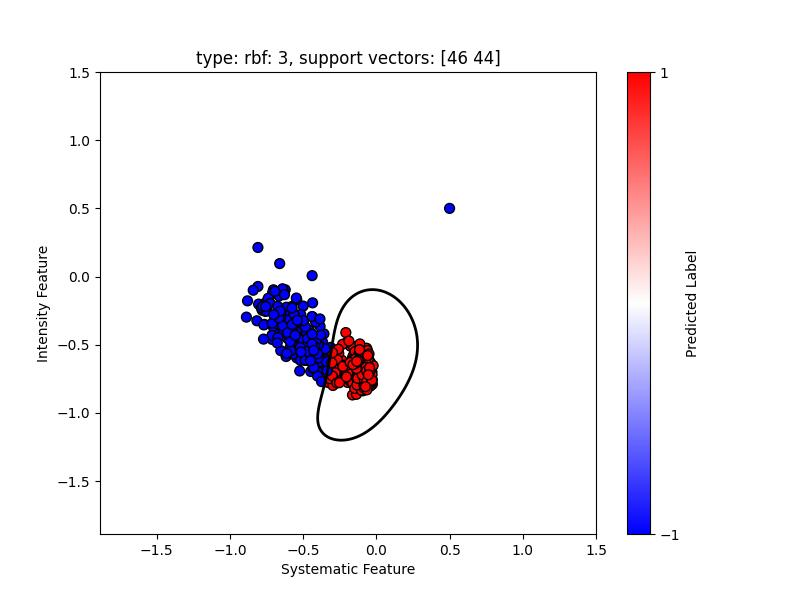
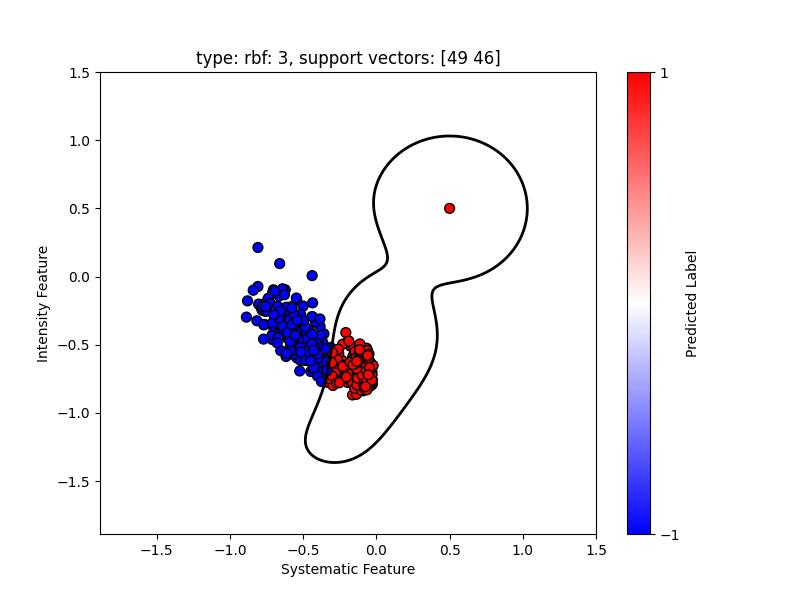
experiment with rbf kernel

diff --git a/code/solution.py b/code/solution.py
@@ -48,6 +48,7 @@ def svm_with_diff_kernel(train_label, train_data, test_label, test_data):
     ### YOUR CODE HERE
     kernels = ['linear', 'poly', 'rbf']
 
+
     train_data = np.array(train_data)
     test_data = np.array(test_data)
     train_label = np.array(train_label)
@@ -57,6 +58,11 @@ def svm_with_diff_kernel(train_label, train_data, test_label, test_data):
     n = 1
     for kernel in kernels:
         if kernel == 'rbf':
+            new_train_point = np.array([0.5, 0.5])
+            new_train_label = np.array([1])
+            train_data = np.vstack([train_data, new_train_point])
+            train_label = np.append(train_label, new_train_label)
+
             test_point = np.array([[0.5, 0.5]])
             test_data = np.vstack([test_data, test_point])
 

diff --git a/code/main.py b/code/main.py
@@ -10,8 +10,8 @@ def test_svm():
         train_data, train_label = load_features(traindataloc)
         test_data, test_label = load_features(testdataloc)
 
-        svm_with_diff_c(train_label.tolist(), train_data.tolist(),
-                        test_label.tolist(), test_data.tolist())
+        # svm_with_diff_c(train_label.tolist(), train_data.tolist(),
+        #                 test_label.tolist(), test_data.tolist())
         svm_with_diff_kernel(train_label.tolist(), train_data.tolist(),
                              test_label.tolist(), test_data.tolist())
 
